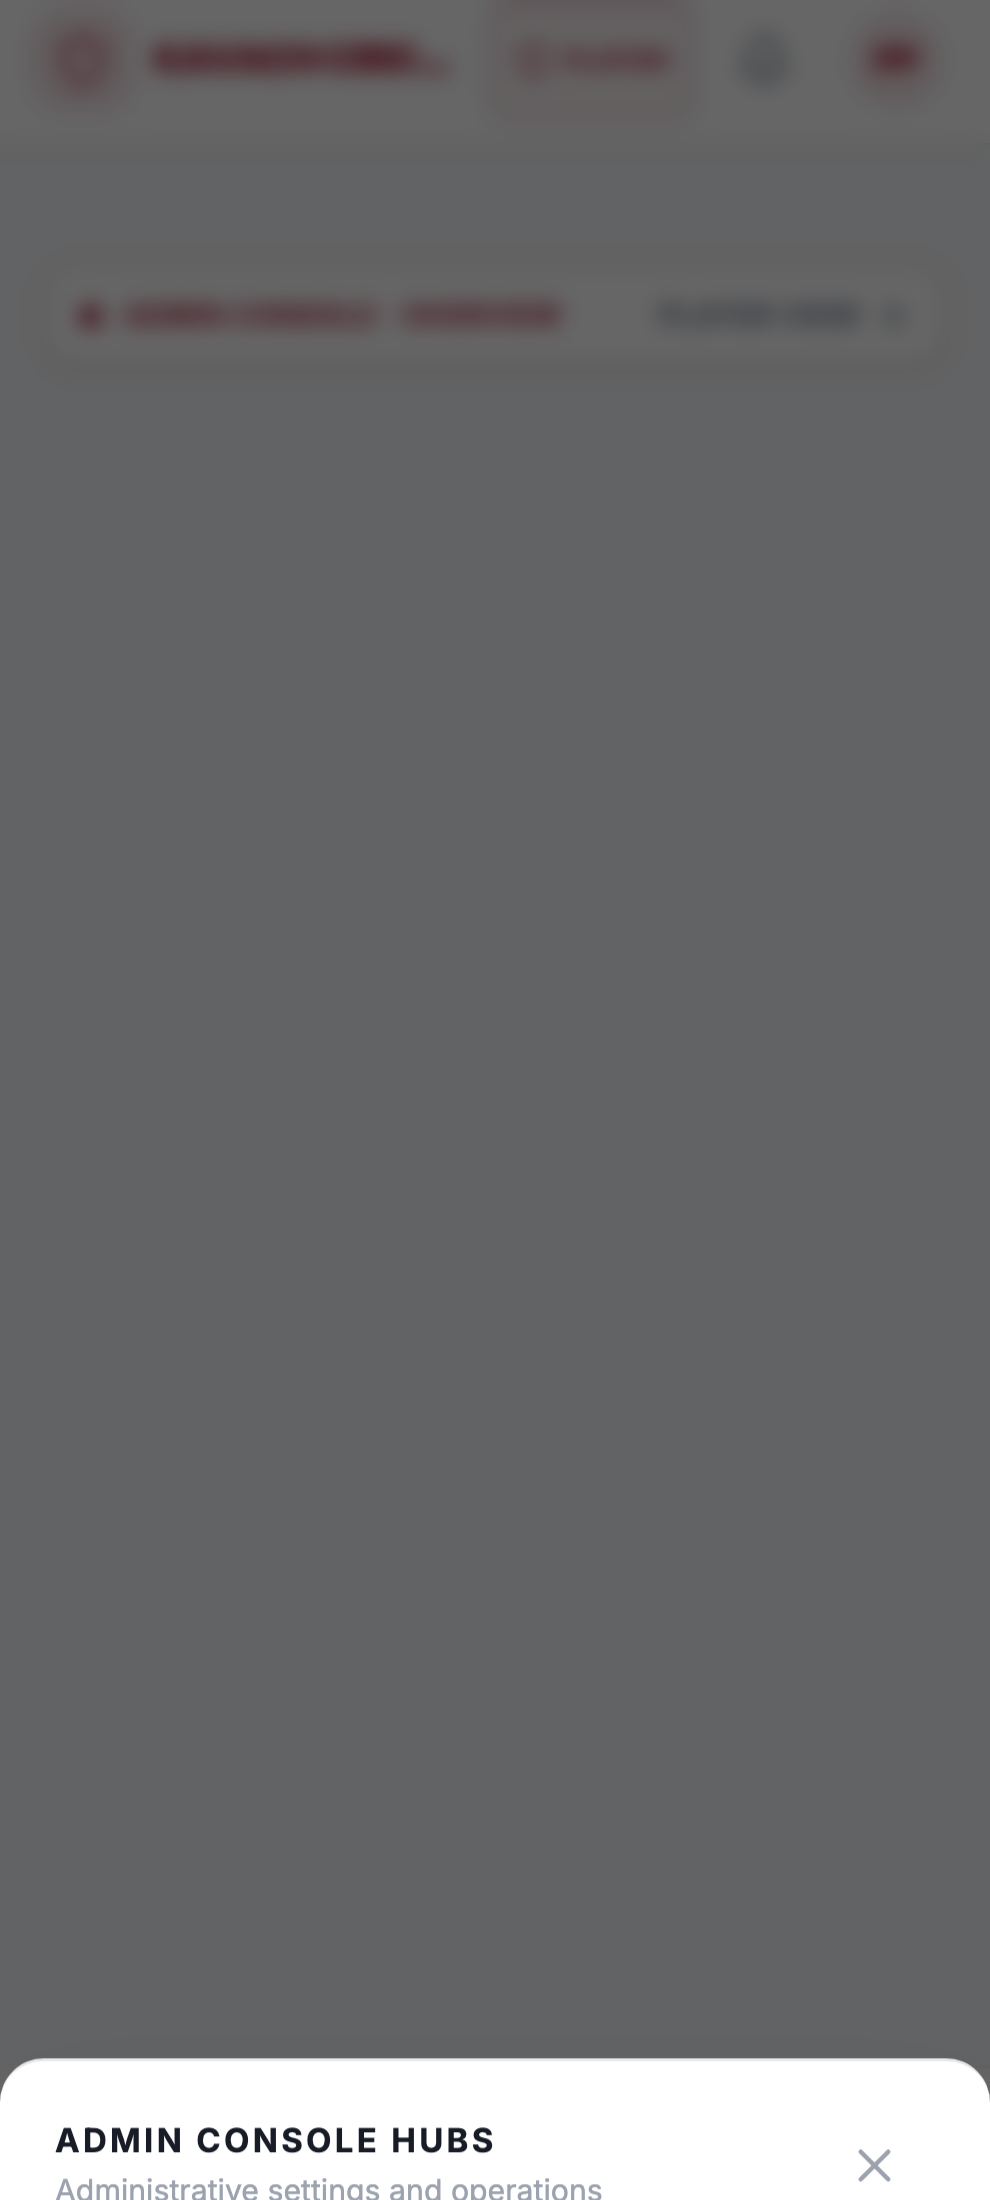
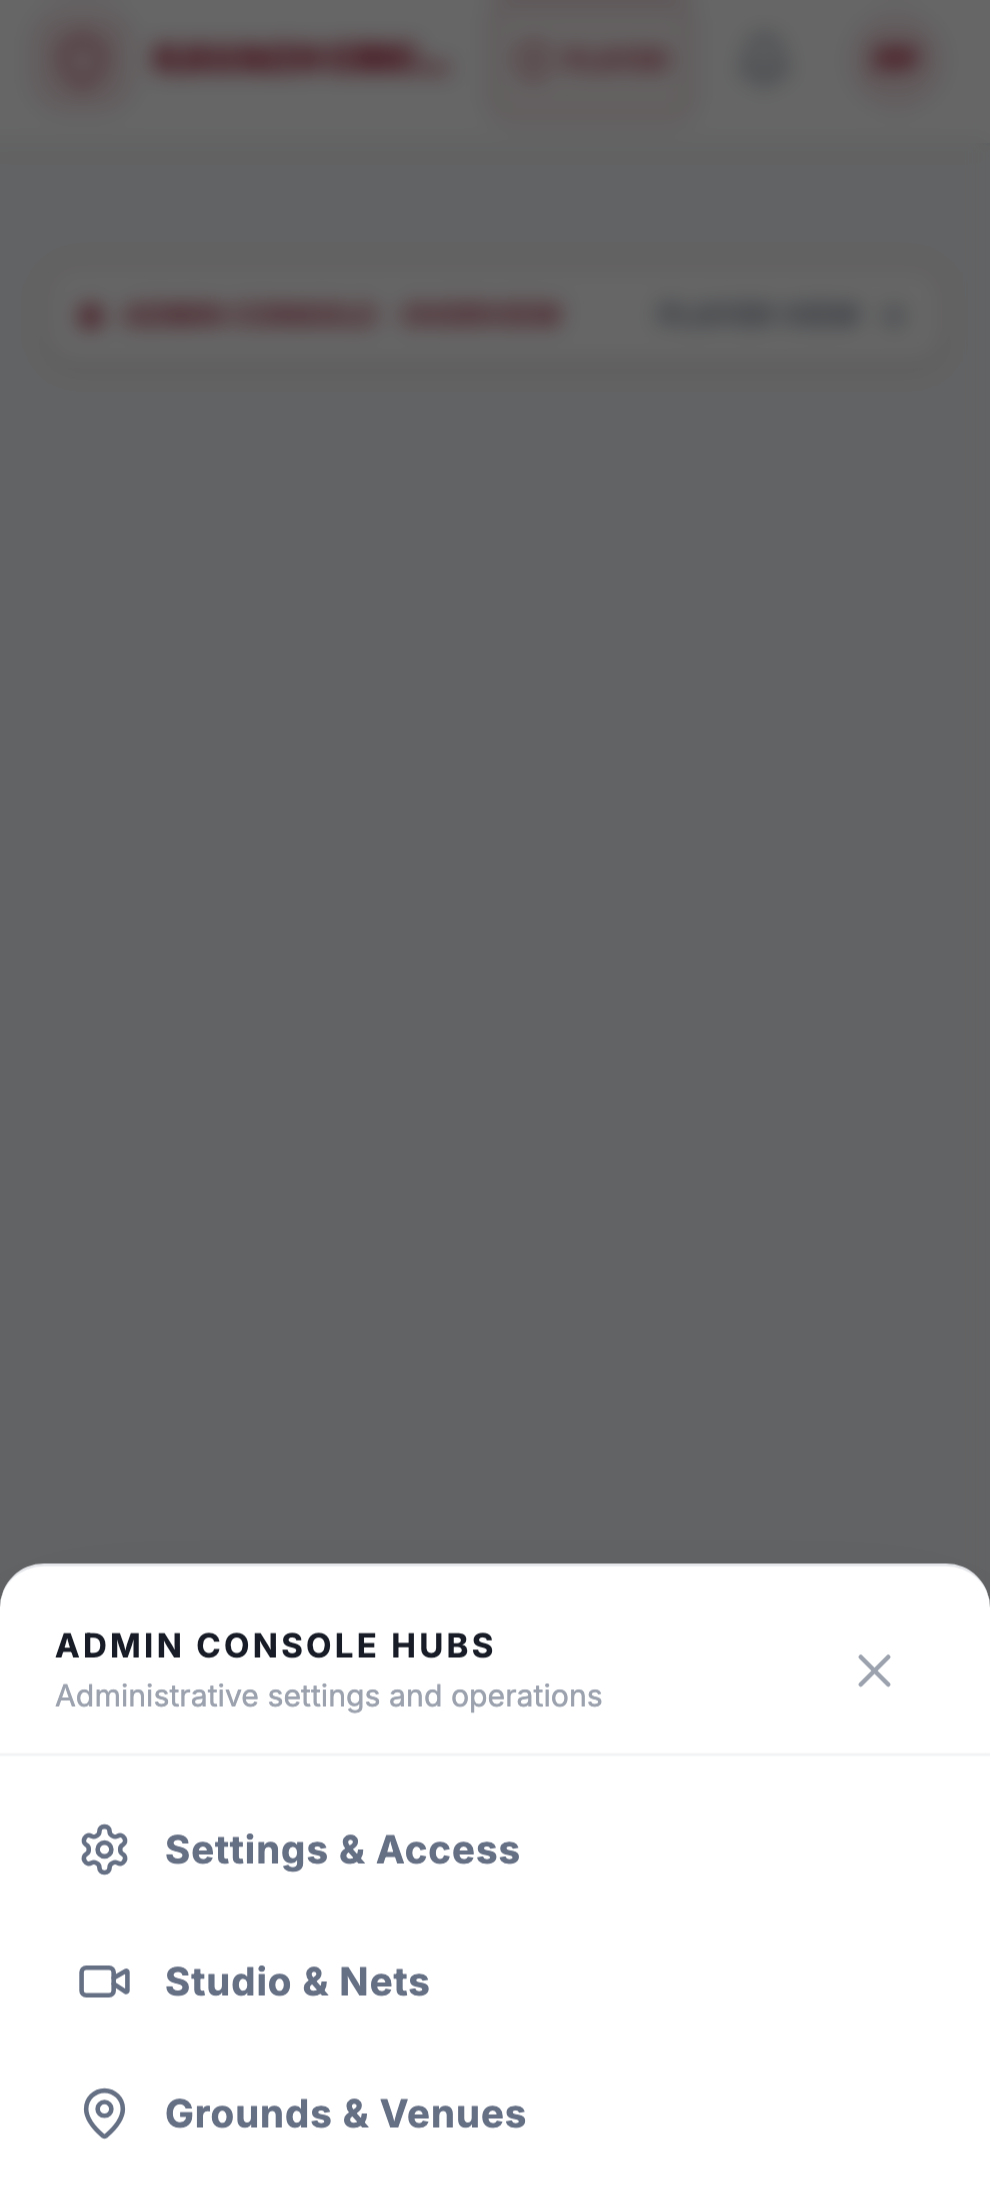
fix(test): isolate Match Admin RBAC test and verify deterministic parent-rerender stability

Changed region(s): [[0.0, 0.7109, 1.0, 1.0]]

diff --git a/e2e/shared-shell-behavioral.spec.ts b/e2e/shared-shell-behavioral.spec.ts
@@ -77,12 +77,12 @@ test.describe("Shared Mobile Application Shell — Real Browser Behavioural Suit
     page,
   }) => {
     await page.setViewportSize({ width: 375, height: 812 });
-    // Match Admin and Club Admin only (not Super Admin) with shop feature disabled
+    // Match Admin strictly without Club Admin or Super Admin privileges (isolated RBAC test)
     await injectSyntheticSession(page, {
       uid: "admin-beta",
       role: "admin",
       isMatchAdmin: true,
-      isClubAdmin: true,
+      isClubAdmin: false,
       isSuperAdmin: false,
       features: {
         shop: false,
@@ -117,11 +117,17 @@ test.describe("Shared Mobile Application Shell — Real Browser Behavioural Suit
     const sheet = page.locator('[data-testid="more-drawer-sheet"]');
     await expect(sheet).toBeVisible();
 
-    // RBAC: Grounds & Venues must be visible (user is Match Admin)
+    // RBAC: Grounds & Venues must be visible specifically due to Match Admin permission
     await expect(sheet.locator('[data-testid="more-item-grounds"]')).toBeVisible();
 
     // RBAC: Settings & Access must NOT be visible (user is NOT Super Admin)
     await expect(sheet.locator('[data-testid="more-item-settings"]')).toBeHidden();
+
+    // RBAC: Studio & Nets must NOT be visible (user is NOT Studio Admin)
+    await expect(sheet.locator('[data-testid="more-item-studio"]')).toBeHidden();
+
+    // RBAC: Design Studio must NOT be visible (user is NOT Designer / Club Admin)
+    await expect(sheet.locator('[data-testid="more-item-design"]')).toBeHidden();
 
     // Feature Flags: Merchandise Shop must NOT be visible (feature disabled)
     await expect(sheet.locator('[data-testid="more-item-shop"]')).toBeHidden();
@@ -171,17 +177,46 @@ test.describe("Shared Mobile Application Shell — Real Browser Behavioural Suit
     await page.keyboard.press("Tab");
     await expect(closeBtn).toBeFocused();
 
-    // Rerender stability: trigger parent re-renders while drawer remains open
+    // User moves focus to a specific item inside the drawer
+    const targetDrawerControl = sheet.locator('[data-testid="more-item-club"]');
+    await targetDrawerControl.focus();
+    await expect(targetDrawerControl).toBeFocused();
+
+    // Record baseline parent render count before triggering rerender
+    const initialRenderCount = await page.evaluate(
+      () => (window as any).__KAVACH_BOTTOM_NAV_RENDER_COUNT__ || 0
+    );
+
+    // Deterministic parent re-render: trigger genuine React state update in parent (app/page.tsx)
     await page.evaluate(() => {
-      window.dispatchEvent(new Event("resize"));
+      if (typeof (window as any).__KAVACH_TRIGGER_PARENT_RERENDER__ === "function") {
+        (window as any).__KAVACH_TRIGGER_PARENT_RERENDER__();
+      }
     });
 
-    // Verify focus remains inside drawer and body overflow remains hidden
+    // Confirm that the parent rerender actually occurred in the DOM / component lifecycle
+    await expect
+      .poll(
+        async () =>
+          page.evaluate(() => (window as any).__KAVACH_BOTTOM_NAV_RENDER_COUNT__ || 0),
+        { message: "Expected parent component to execute at least one re-render", timeout: 4000 }
+      )
+      .toBeGreaterThan(initialRenderCount);
+
+    // Confirm drawer remains open
+    await expect(sheet).toBeVisible();
+
+    // Confirm focus remains on the SAME drawer control (neither stolen by trigger nor reset)
+    await expect(targetDrawerControl).toBeFocused();
+
+    // Confirm original focus trigger (moreBtn) is NOT focused prematurely
+    await expect(moreBtn).not.toBeFocused();
+
+    // Confirm document.body.style.overflow remains hidden
     const isStillLocked = await page.evaluate(() => document.body.style.overflow === "hidden");
     expect(isStillLocked).toBe(true);
-    await expect(closeBtn).toBeFocused();
 
-    // Escape key dismissal
+    // Close drawer via Escape key
     await page.keyboard.press("Escape");
     await expect(sheet).toBeHidden();
 
@@ -189,7 +224,7 @@ test.describe("Shared Mobile Application Shell — Real Browser Behavioural Suit
     const isUnlocked = await page.evaluate(() => document.body.style.overflow !== "hidden");
     expect(isUnlocked).toBe(true);
 
-    // Focus restored to More trigger button
+    // Focus restored cleanly to More trigger button
     await expect(moreBtn).toBeFocused();
 
     // Test Backdrop dismissal

diff --git a/components/layout/MobileBottomNav.tsx b/components/layout/MobileBottomNav.tsx
@@ -58,6 +58,12 @@ export function MobileBottomNav({
   const adminMoreBtnRef = useRef<HTMLButtonElement>(null);
   const playerMoreBtnRef = useRef<HTMLButtonElement>(null);
 
+  const renderCountRef = useRef(0);
+  renderCountRef.current += 1;
+  if (process.env.NODE_ENV !== "production" && typeof window !== "undefined") {
+    (window as any).__KAVACH_BOTTOM_NAV_RENDER_COUNT__ = renderCountRef.current;
+  }
+
   if (hasMissingMandatory) return null;
 
   const btnCls = (isActive: boolean) =>
@@ -87,6 +93,7 @@ export function MobileBottomNav({
         />
         <nav
           data-testid="admin-mobile-bottom-nav"
+          data-render-count={process.env.NODE_ENV !== "production" ? renderCountRef.current : undefined}
           aria-label="Admin primary mobile navigation"
           className="fixed bottom-0 left-0 right-0 w-full bg-surface/95 backdrop-blur-2xl !border-b-0 !border-x-0 !rounded-none md:hidden pb-safe z-30 flex items-center shadow-lg justify-around border-t border-border px-1"
         >
@@ -159,6 +166,7 @@ export function MobileBottomNav({
       />
       <nav
         data-testid="player-mobile-bottom-nav"
+        data-render-count={process.env.NODE_ENV !== "production" ? renderCountRef.current : undefined}
         aria-label="Player primary mobile navigation"
         className="fixed bottom-0 left-0 right-0 w-full bg-surface/95 backdrop-blur-2xl !border-b-0 !border-x-0 !rounded-none md:hidden pb-safe z-30 flex items-center shadow-lg justify-around border-t border-border px-1"
       >

diff --git a/app/page.tsx b/app/page.tsx
@@ -153,6 +153,7 @@ export default function Home() {
     | "club"
   >("home");
   const [tabAction, setTabAction] = useState<string | null>(null);
+  const [, setTestRerenderCount] = useState(0);
 
   const setActiveTab = useCallback((tab: any, action?: string) => {
     setActiveTabBase(tab);
@@ -222,6 +223,9 @@ export default function Home() {
       };
       (window as any).__KAVACH_SET_PERSONA__ = (p: "player" | "admin") => {
         setPersona(p);
+      };
+      (window as any).__KAVACH_TRIGGER_PARENT_RERENDER__ = () => {
+        setTestRerenderCount((c) => c + 1);
       };
     }
   }, [setActiveTab]);
